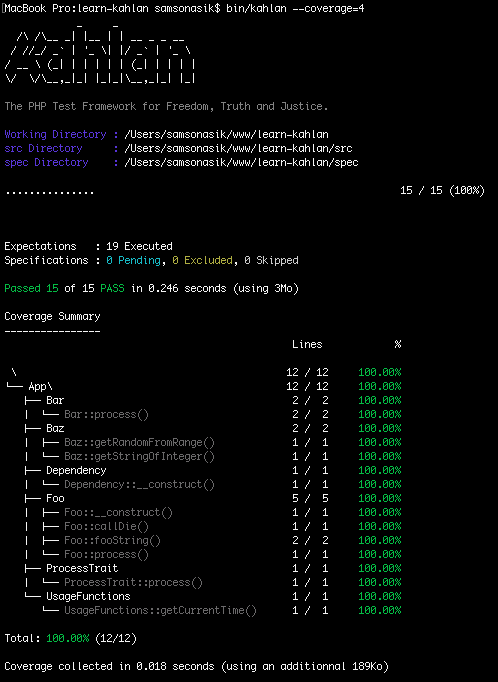
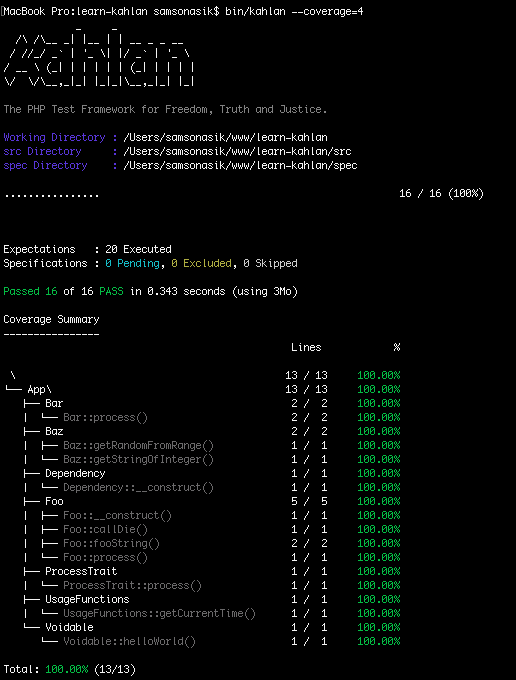
added toEcho example

diff --git a/spec/VoidableSpec.php b/spec/VoidableSpec.php
@@ -1,0 +1,28 @@
+<?php
+
+namespace App\Spec;
+
+use App\Voidable;
+
+describe('Voidable', function () {
+
+    given('voidable', function () {
+        return new Voidable();
+    });
+
+    describe('->helloWorld()', function () {
+
+        it('echo-ed "Hello World!"', function () {
+
+            $expected = 'Hello World!';
+            $closure = function () {
+                $this->voidable->helloWorld();
+            };
+
+            expect($closure)->toEcho($expected);
+
+        });
+
+    });
+
+});

diff --git a/src/Voidable.php b/src/Voidable.php
@@ -1,0 +1,11 @@
+<?php
+
+namespace App;
+
+class Voidable
+{
+    public function helloWorld()
+    {
+        echo "Hello World!";
+    }
+}
